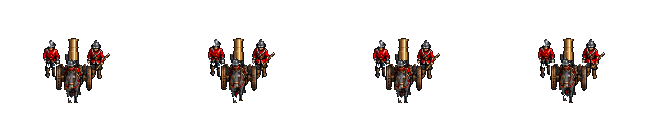
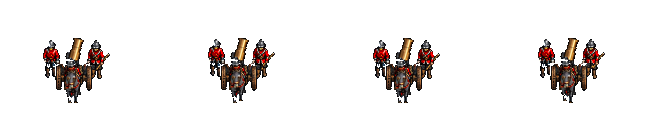
v0.7.78: the towed cannon's barrel leans a little to the right when it moves south (it stood straight up)
Claude-Session: https://claude.ai/code/session_01NtmEZhP1uA8k4DLQ7BYfMz

diff --git a/tools/tilt_cannon_barrel.py b/tools/tilt_cannon_barrel.py
@@ -1,0 +1,27 @@
+# Tilts the limbered cannon barrel in the south-walk frames (it stood straight up like a chimney).
+# usage: python3 tools/tilt_cannon_barrel.py assets/units/cannon/walk_s.png out.png 15
+import sys
+from PIL import Image
+import numpy as np
+src, dst, ang = sys.argv[1], sys.argv[2], float(sys.argv[3])
+im = Image.open(src).convert('RGBA')
+W = 165
+n = im.width // W
+out = im.copy()
+X0, X1, Y0, Y1 = 63, 88, 30, 61
+px, py = 75.5, 60
+for i in range(n):
+    fr = im.crop((i*W, 0, i*W+W, im.height))
+    reg = fr.crop((X0, Y0, X1, Y1))
+    big = Image.new('RGBA', (W, im.height), (0,0,0,0))
+    big.paste(reg, (X0, Y0))
+    rot = big.rotate(-ang, resample=Image.BICUBIC, center=(px, py)); ra = np.array(rot); ra[...,3] = np.where(ra[...,3] > 110, 255, 0); rot = Image.fromarray(ra)
+    base = np.array(fr)
+    base[Y0:Y1, X0:X1] = 0
+    b = Image.fromarray(base)
+    # rotated barrel goes under nothing: composite barrel then original lower parts on top
+    comp = Image.new('RGBA', b.size, (0,0,0,0))
+    comp.alpha_composite(rot)
+    comp.alpha_composite(b)
+    out.paste(comp, (i*W, 0))
+out.save(dst)
